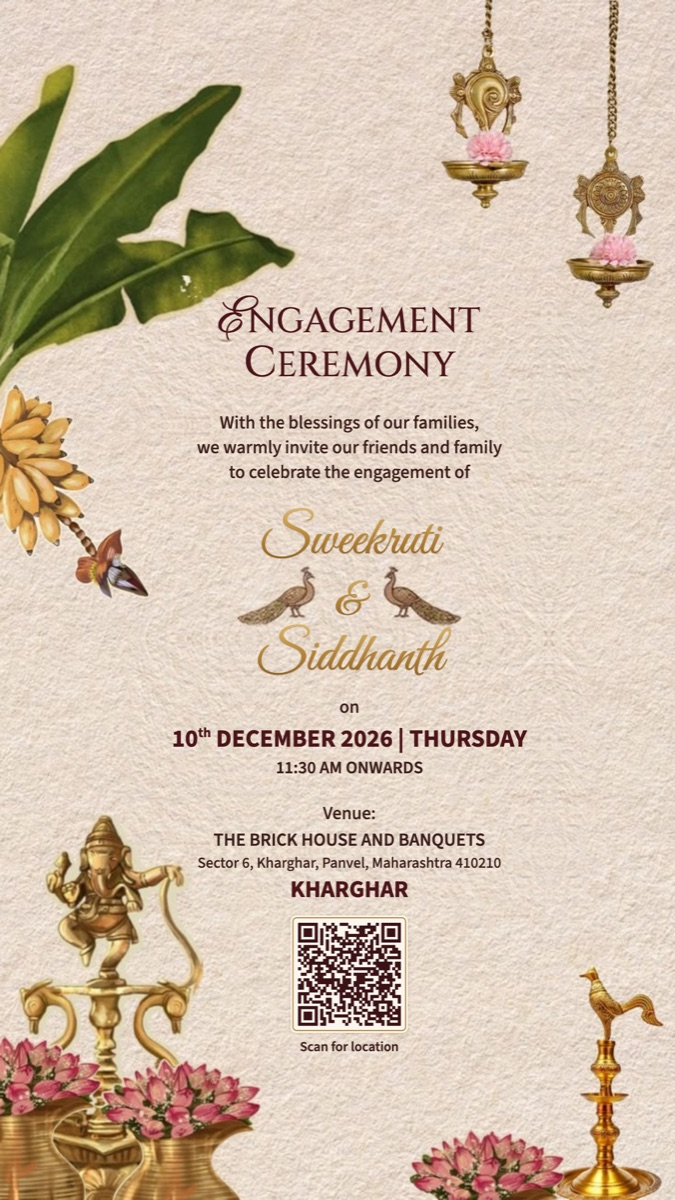
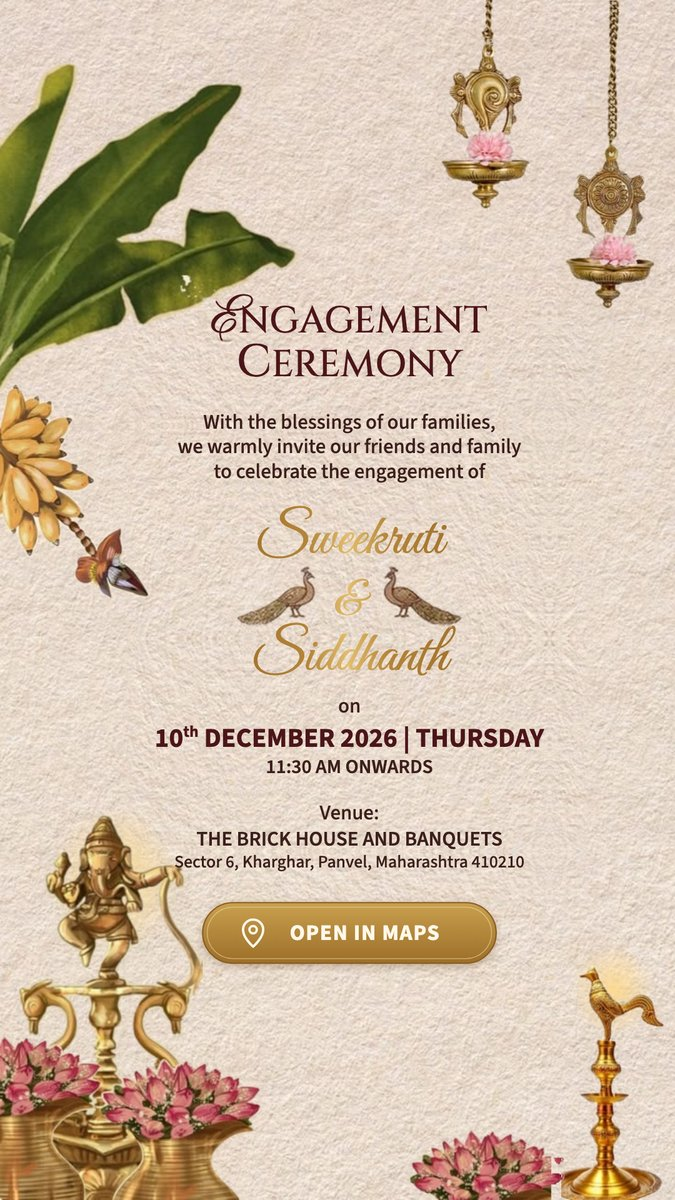
Fix link preview: fresh preview image and absolute og:image URL

diff --git a/site/index.html b/site/index.html
@@ -7,7 +7,11 @@
 <meta name="description" content="Join us for the engagement ceremony of Sweekruti &amp; Siddhanth on 10th December 2026 at The Brick House and Banquets, Kharghar.">
 <meta property="og:title" content="Sweekruti &amp; Siddhanth · Engagement Ceremony">
 <meta property="og:description" content="Thursday, 10th December 2026 · 11:30 AM onwards · The Brick House and Banquets, Kharghar">
-<meta property="og:image" content="assets/preview.jpg">
+<meta property="og:image" content="https://engagement-invite-mu.vercel.app/assets/preview.jpg">
+<meta property="og:image:width" content="675">
+<meta property="og:image:height" content="1200">
+<meta property="og:url" content="https://engagement-invite-mu.vercel.app/">
+<meta name="twitter:card" content="summary_large_image">
 <meta property="og:type" content="website">
 <meta name="theme-color" content="#efe7da">
 <link rel="preconnect" href="https://fonts.googleapis.com">
